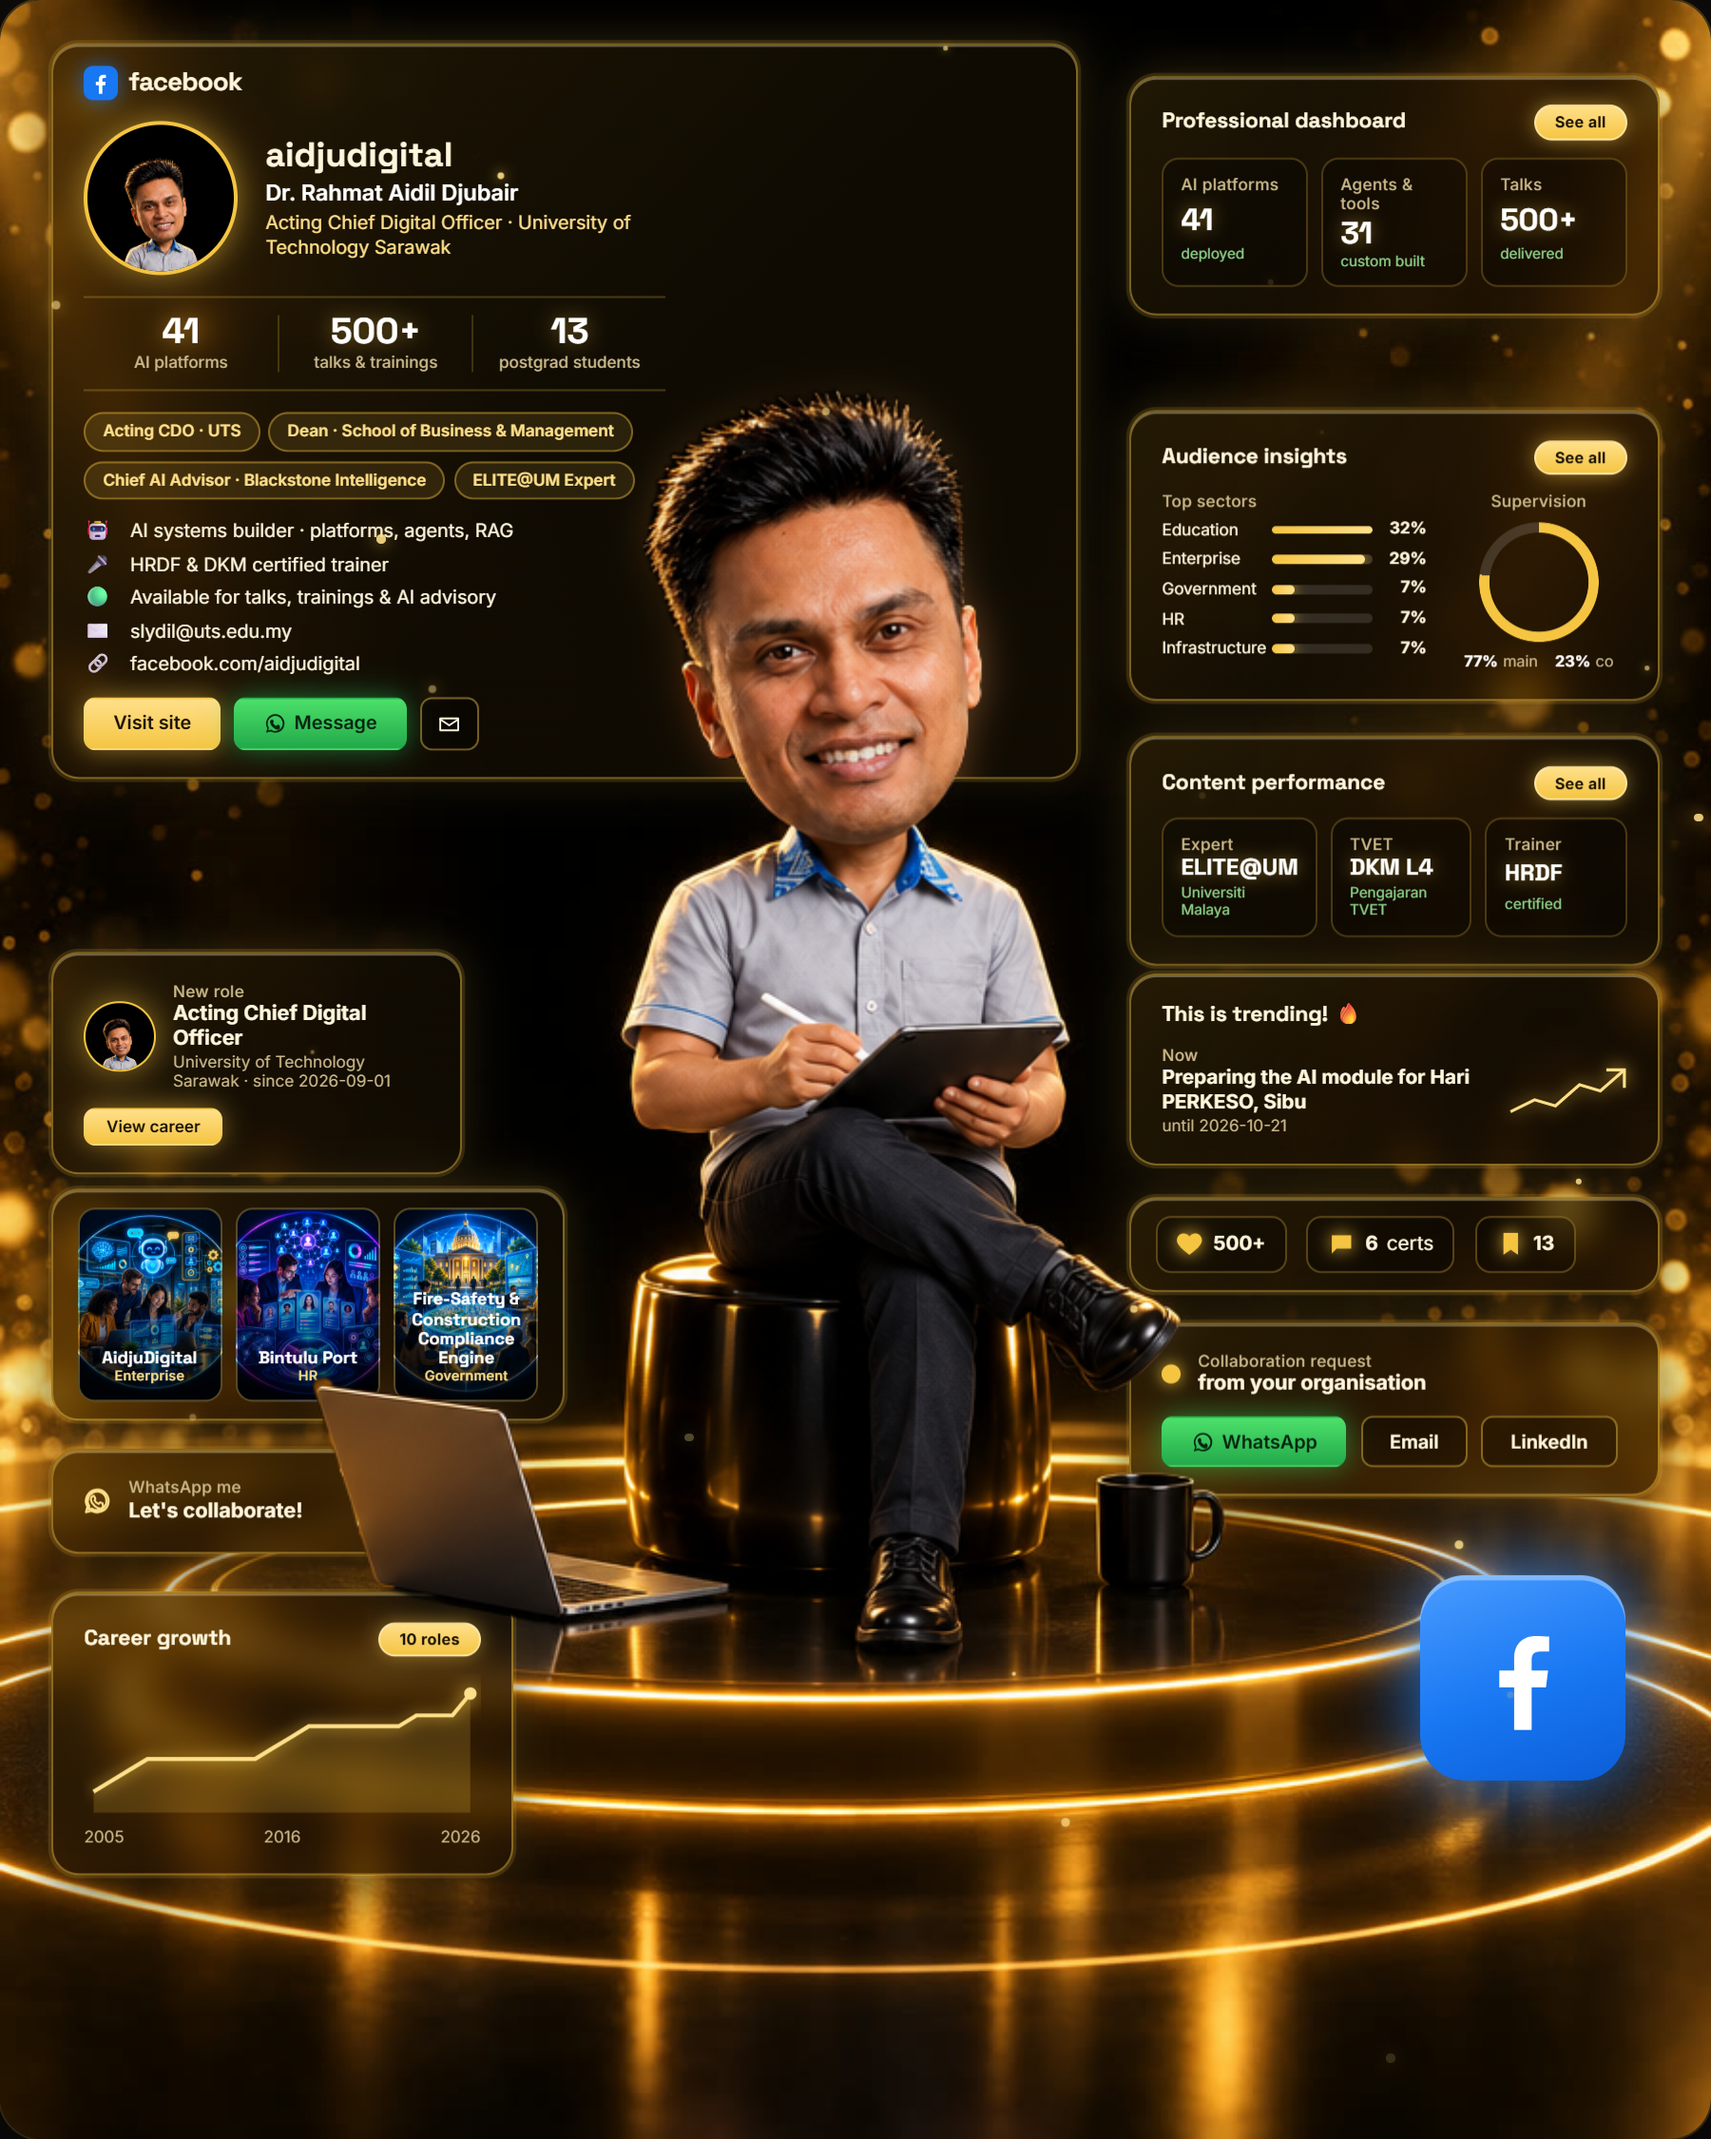
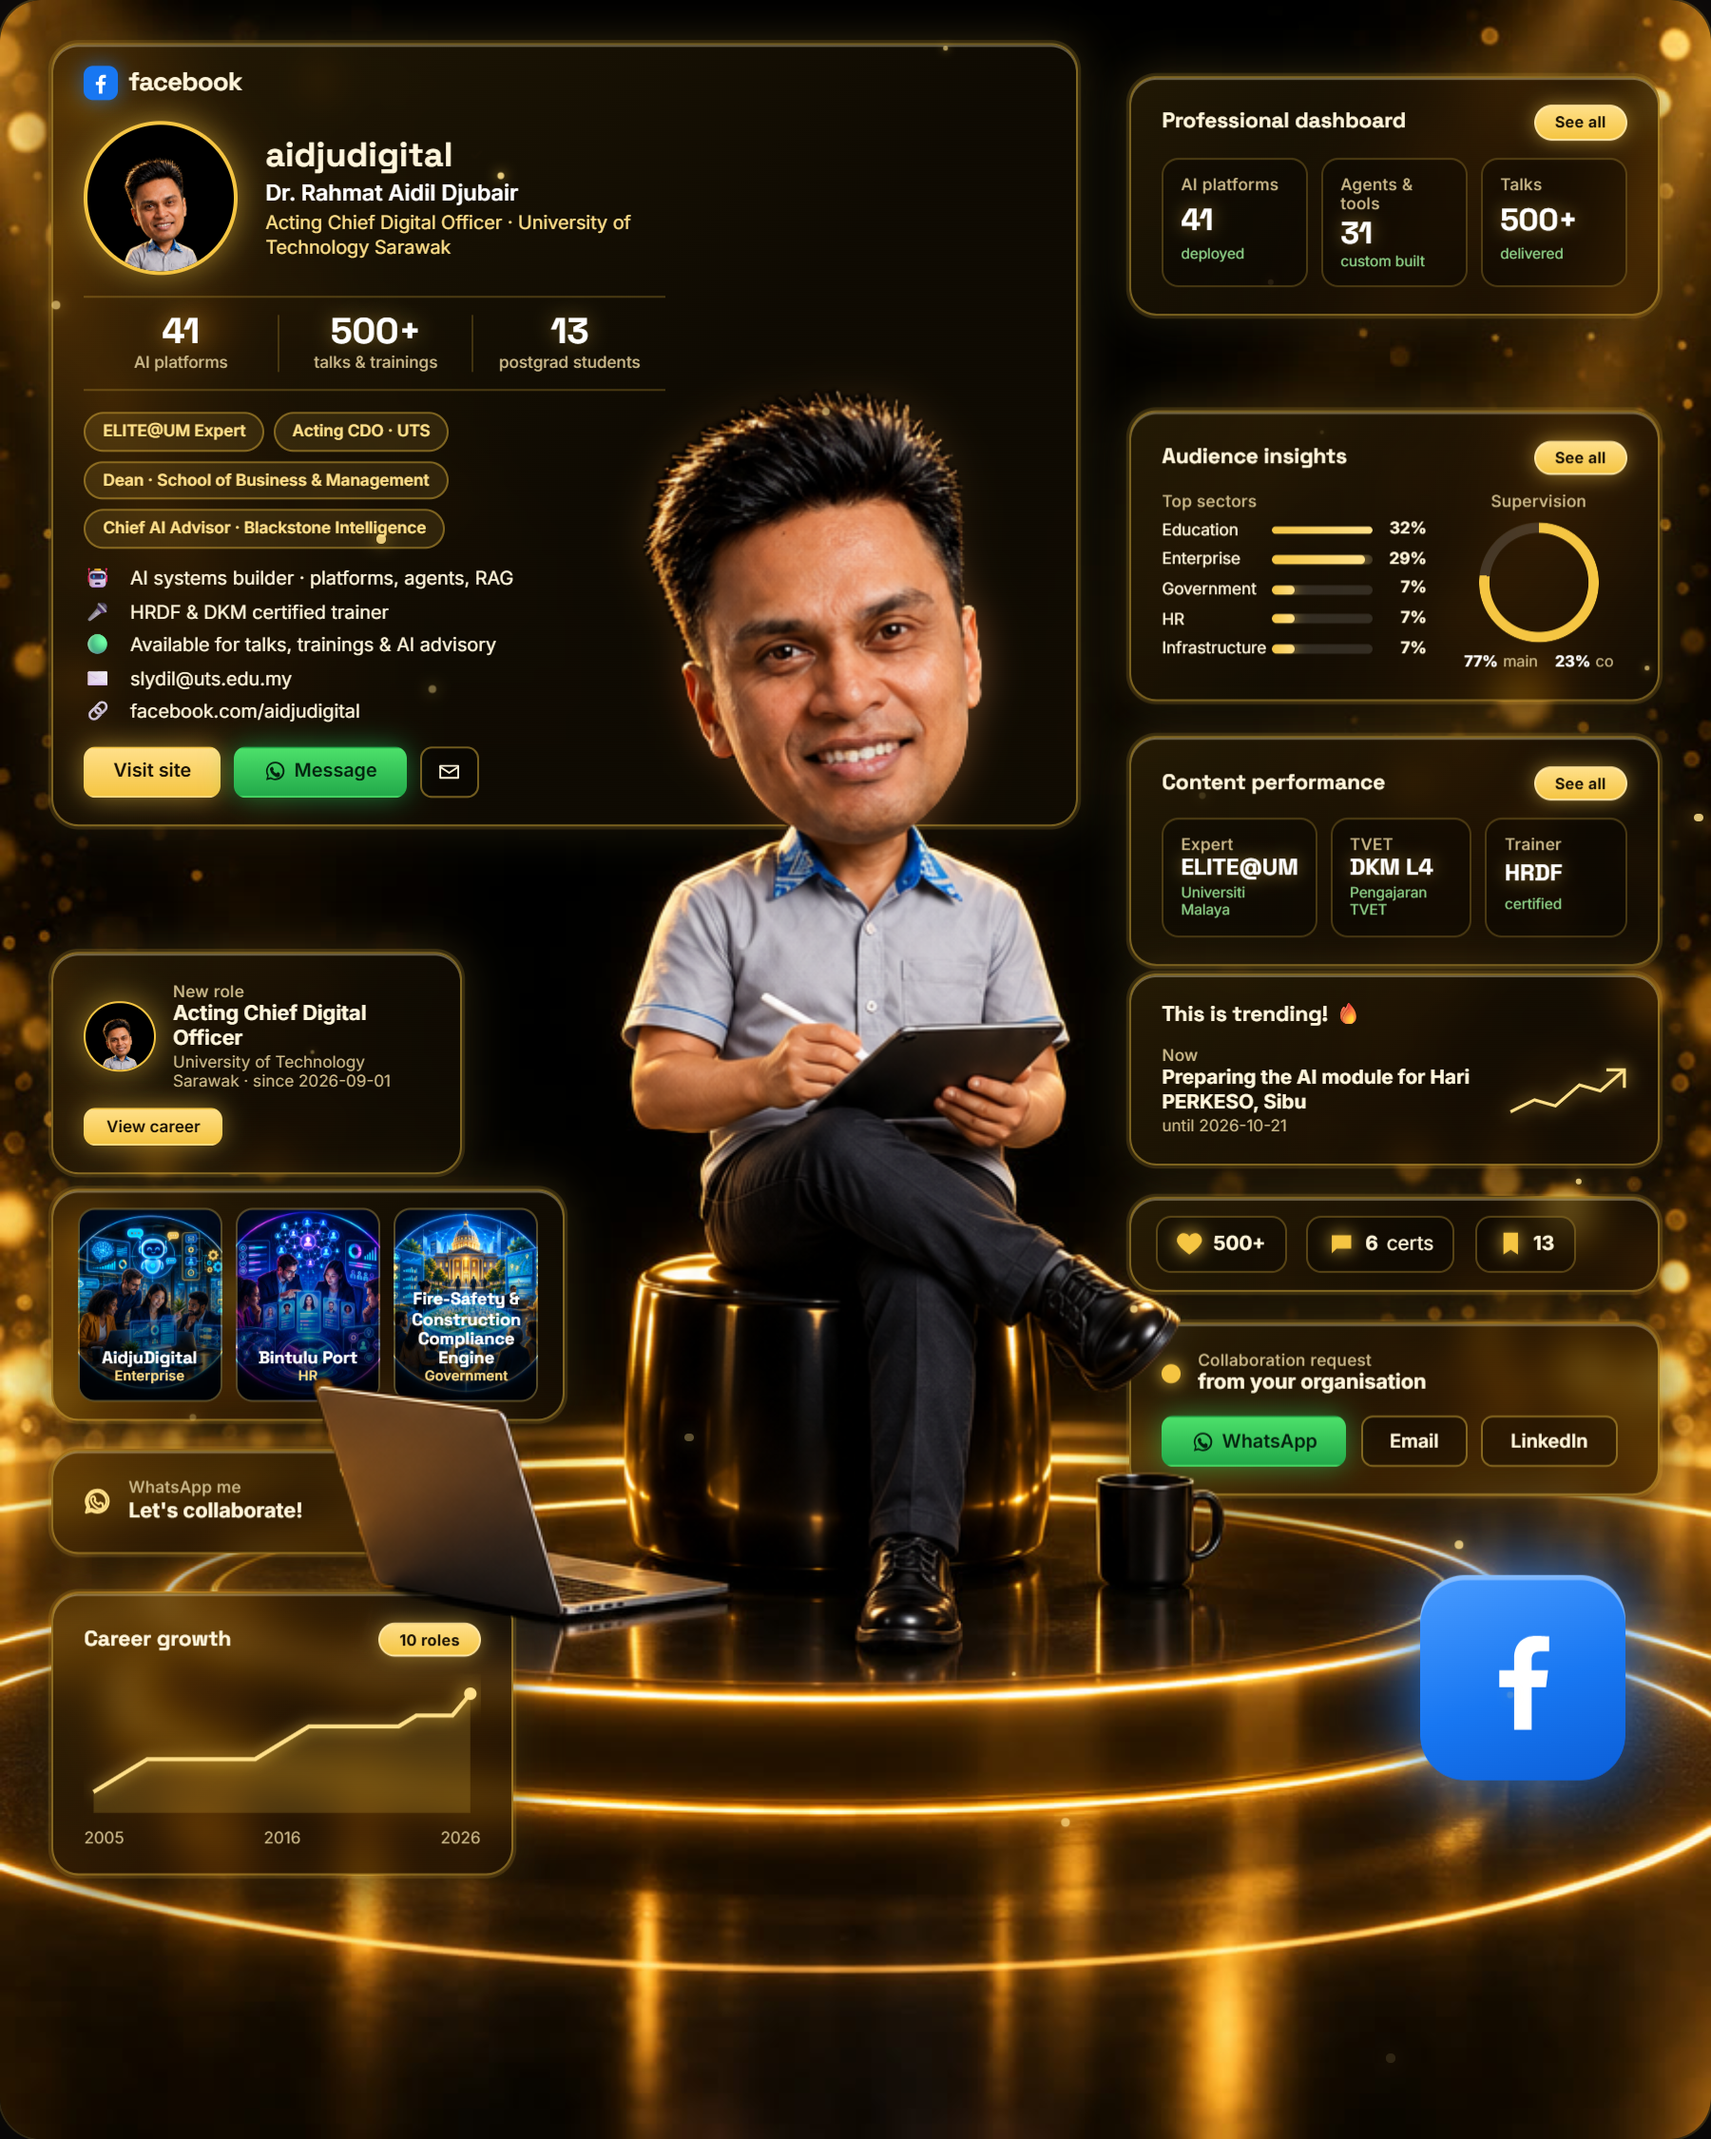
Resume: ELITE@UM chip first, every role chip links to its section
Claude-Session: https://claude.ai/code/session_01Euzg3xWTRtpQsMbFwotNTs

diff --git a/resume/resume.js b/resume/resume.js
@@ -8,7 +8,7 @@
   const reduced = matchMedia('(prefers-reduced-motion: reduce)').matches;
 
   const SITE = '../', FB = 'https://www.facebook.com/aidjudigital';
-  const AV = 'avatar.png?v=7'; // bump with index.html when the avatar is re-cropped, so caches refetch
+  const AV = 'avatar.png?v=8'; // bump with index.html when the avatar is re-cropped, so caches refetch
   // WhatsApp deep link: Malaysian local number -> international, no punctuation (016-772 5496 -> 60167725496)
   const waNumber = p => { const d = String(p || '').replace(/\D/g, ''); return d.startsWith('0') ? '6' + d : d; };
   const HELLO = "Hi Dr. Rahmat, I saw your digital resume and would like to talk about a talk / training / AI project.";
@@ -45,7 +45,10 @@
   };
 
   // ---- profile card
-  const roles = P.roles || [];
+  // ELITE@UM first, and each role chip links to the section that backs it
+  const roles = [...(P.roles || [])].sort((a, b) => (/elite/i.test(b) ? 1 : 0) - (/elite/i.test(a) ? 1 : 0));
+  const ROLE_LINK = [[/elite/i, '#academic'], [/advisor|blackstone/i, '#projects']];
+  const roleHref = r => SITE + ((ROLE_LINK.find(([re]) => re.test(r)) || [, '#career'])[1]);
   const bio = [
     ['\u{1F916}', 'AI systems builder \u00b7 platforms, agents, RAG'],
     ['\u{1F3A4}', 'HRDF &amp; DKM certified trainer'],
@@ -68,7 +71,7 @@
       <span><b>${esc(talksStat)}</b><em>talks &amp; trainings</em></span>
       <span><b>${sup.length}</b><em>postgrad students</em></span>
     </span>
-    <span class="prof__chips">${roles.map(r => `<span class="rchip">${esc(r)}</span>`).join('')}</span>
+    <span class="prof__chips">${roles.map(r => `<a class="rchip" href="${roleHref(r)}">${esc(r)}</a>`).join('')}</span>
     <span class="prof__bio">${bio.map(([ic, t]) => `<span class="brow"><i>${ic}</i>${t}</span>`).join('')}</span>
     <span class="prof__btns">
       <a class="b b--gold" href="${SITE}">Visit site</a>

diff --git a/resume/index.html b/resume/index.html
@@ -8,13 +8,13 @@
   <link rel="preconnect" href="https://fonts.googleapis.com">
   <link rel="preconnect" href="https://fonts.gstatic.com" crossorigin>
   <link rel="stylesheet" href="https://fonts.googleapis.com/css2?family=Inter:wght@400;500;600;700&family=JetBrains+Mono:wght@400;600&family=Space+Grotesk:wght@500;700&display=swap">
-  <link rel="stylesheet" href="resume.css?v=7">
+  <link rel="stylesheet" href="resume.css?v=8">
 </head>
 <body>
   <main class="poster" id="poster" aria-label="Digital resume of Dr. Rahmat Aidil Djubair">
-    <img class="poster__scene" src="scene.jpg?v=7" alt="" width="1024" height="1280">
+    <img class="poster__scene" src="scene.jpg?v=8" alt="" width="1024" height="1280">
     <div class="poster__ui" id="ui"></div>
-    <img class="poster__figure" src="figure.png?v=7" alt="Dr. Rahmat Aidil Djubair, caricature, seated with a tablet" width="1024" height="1280">
+    <img class="poster__figure" src="figure.png?v=8" alt="Dr. Rahmat Aidil Djubair, caricature, seated with a tablet" width="1024" height="1280">
     <div class="poster__sparks" aria-hidden="true"></div>
   </main>
   <p class="foot"><a href="../">Visit site</a> · <a href="../cv/Rahmat-Aidil-Profile.pdf" download>Download Profile</a> · <a href="https://wa.me/60167725496" rel="noopener" target="_blank">WhatsApp 016-772 5496</a> · <a href="mailto:slydil@uts.edu.my">slydil@uts.edu.my</a> · <a href="https://www.facebook.com/aidjudigital" rel="noopener" target="_blank">facebook.com/aidjudigital</a></p>
@@ -25,6 +25,6 @@
   <script src="../data/projects.js"></script>
   <script src="../data/academic.js"></script>
   <script src="../data/credentials.js"></script>
-  <script src="resume.js?v=7"></script>
+  <script src="resume.js?v=8"></script>
 </body>
 </html>

diff --git a/resume/resume.css b/resume/resume.css
@@ -79,7 +79,8 @@ a { color: inherit; text-decoration: none; }
 /* roles as chips instead of one long run-on line */
 .prof__chips { display: flex; flex-wrap: wrap; gap: .5cqw; }
 .rchip { padding: .45cqw 1cqw; border-radius: 999px; font: 600 .95cqw/1.25 var(--f-body); color: var(--gold-2);
-  background: rgba(245, 197, 66, .12); border: 1px solid rgba(245, 197, 66, .4); }
+  background: rgba(245, 197, 66, .12); border: 1px solid rgba(245, 197, 66, .4); transition: background .25s, border-color .25s, color .25s; }
+.rchip:hover { background: linear-gradient(180deg, var(--gold-2), var(--gold)); border-color: transparent; color: #1a1204; box-shadow: 0 0 1.4cqw rgba(245, 197, 66, .55); }
 /* bio: icon column keeps the text aligned */
 .prof__bio { display: grid; gap: .45cqw; margin-top: 1.1cqw; font-size: 1.1cqw; }
 .brow { display: grid; grid-template-columns: 2cqw 1fr; gap: .7cqw; align-items: start; }
